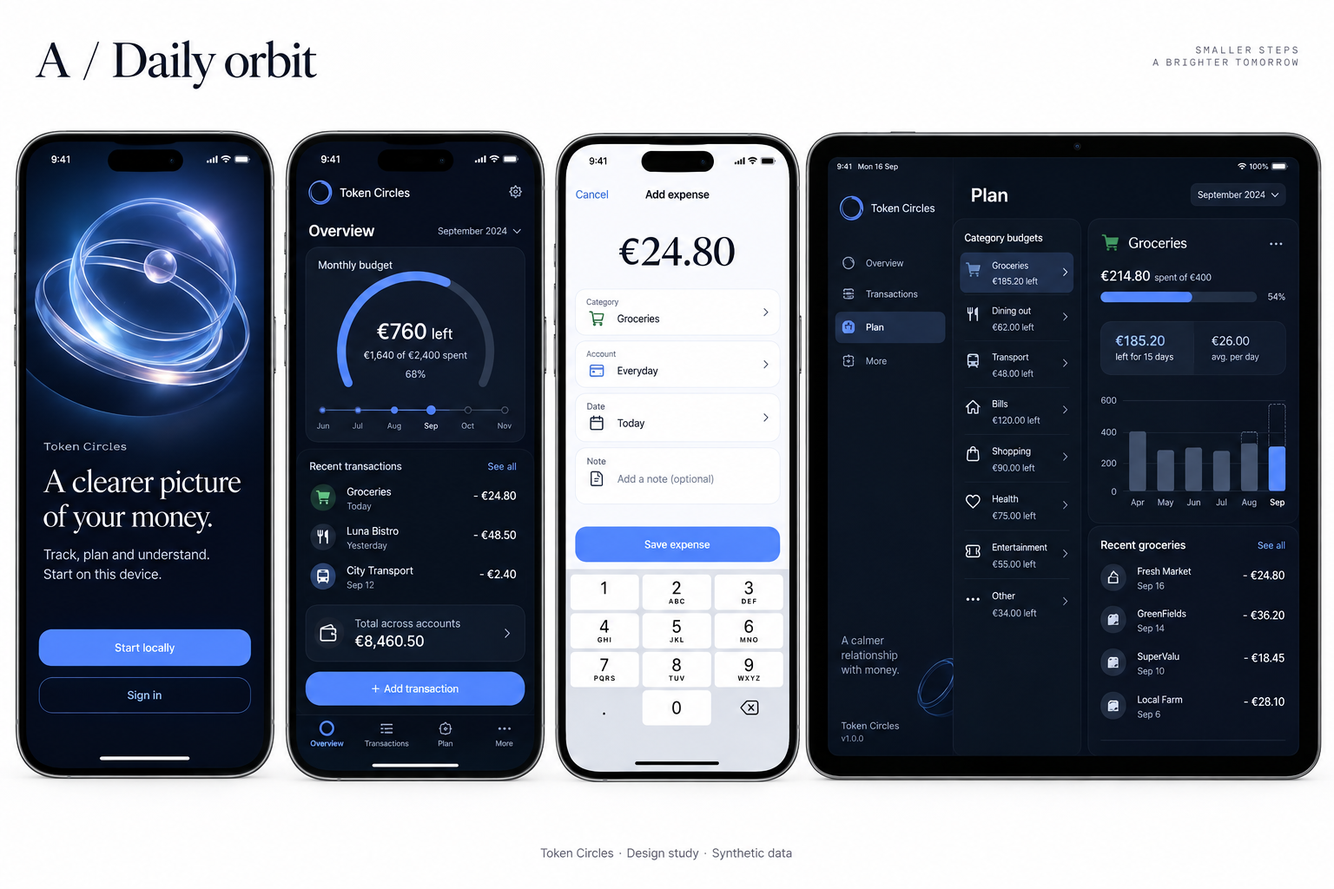
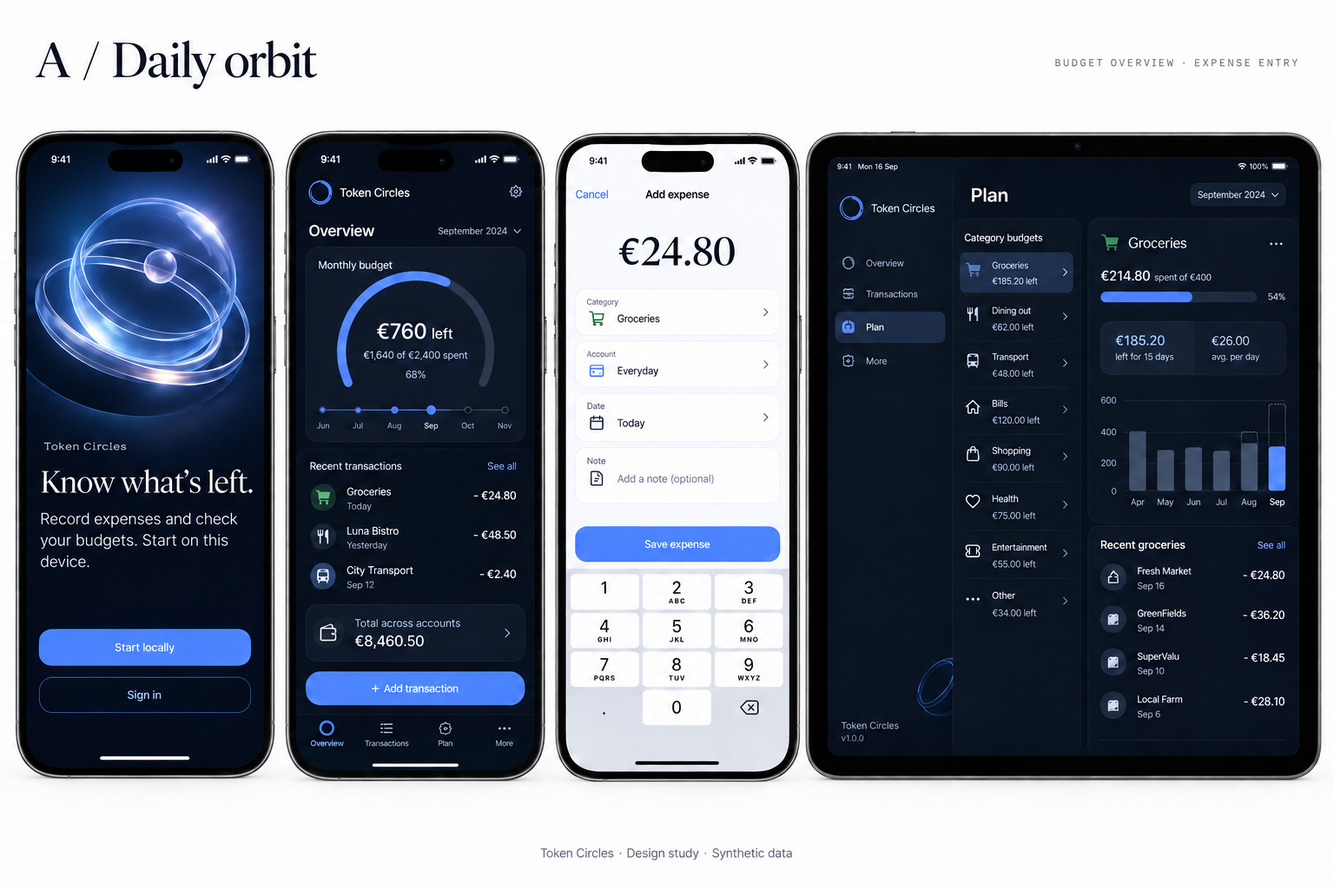
docs: revise native presentation with product voice rules

diff --git a/docs/native/gallery/index.html b/docs/native/gallery/index.html
@@ -11,7 +11,7 @@ FORM: Read/Experience research artifact. App composition remains pending; this p
     <meta charset="utf-8" />
     <meta name="viewport" content="width=device-width, initial-scale=1" />
     <meta name="color-scheme" content="light" />
-    <title>Token Circles — Native app research</title>
+    <title>Token Circles: native app research</title>
     <link rel="stylesheet" href="gallery.css" />
   </head>
   <body>
@@ -26,10 +26,10 @@ FORM: Read/Experience research artifact. App composition remains pending; this p
       <section class="intro" aria-labelledby="title">
         <div>
           <p class="status">Planning proposal · Decisions pending</p>
-          <h1>Your finances.<br />A native perspective.</h1>
+          <h1>Token Circles for<br />iOS and Android.</h1>
           <p class="lede">
-            One product, a purpose-built mobile experience. A plan for iOS and Android that keeps the local-first
-            foundation and gives every flow room to feel at home.
+            Compare three mobile designs for checking budgets, recording expenses and reviewing accounts. Local use
+            stays available without sign-in.
           </p>
         </div>
         <div class="brief">
@@ -38,8 +38,8 @@ FORM: Read/Experience research artifact. App composition remains pending; this p
             and United States first.
           </p>
           <p>
-            Start with a coherent daily finance loop. Reuse tested logic, build a separate mobile interface, and advance
-            one accepted surface at a time.
+            Build the essentials first: accounts, transactions and budgets. Reuse the existing finance logic and review
+            each mobile screen before building the next.
           </p>
           <a class="link-button" href="../README.md">Read the master plan <span aria-hidden="true">↗</span></a
           ><a class="text-link" href="../decisions.md">Open the decision checklist</a>
@@ -55,7 +55,7 @@ FORM: Read/Experience research artifact. App composition remains pending; this p
         <div class="section-heading">
           <div>
             <p class="label">Composition review</p>
-            <h2 id="concept-title">Three ways into the same product.</h2>
+            <h2 id="concept-title">What should the first screen show?</h2>
           </div>
           <p>Generated design studies with synthetic data.<br />Each board shows three phones and a tablet.</p>
         </div>
@@ -77,12 +77,13 @@ FORM: Read/Experience research artifact. App composition remains pending; this p
             <div>
               <h3>A / Daily orbit</h3>
               <p>
-                Budget context leads. A useful monthly relationship, fast expense entry and an expanded planning view.
+                Show the monthly budget first, with spending and the remaining amount together. Keep expense entry close
+                by.
               </p>
             </div>
             <div>
               <strong>Carry forward</strong>
-              <p>The welcome composition, amount-first entry and clear spent/limit/remaining relationship.</p>
+              <p>The welcome layout, amount-first entry and budget display showing spent, limit and remaining.</p>
               <strong>Refine</strong>
               <p>
                 Replace decorative timeline dots, generated glyphs and serif money-entry text. Avoid a stack of
@@ -103,15 +104,20 @@ FORM: Read/Experience research artifact. App composition remains pending; this p
           <figcaption>
             <div>
               <h3>B / The daily ledger</h3>
-              <p>Transactions lead. A legible everyday list becomes a focused reconciliation workspace on a tablet.</p>
+              <p>
+                Put the transaction list first. On a tablet, show the selected transaction and its receipt beside the
+                list.
+              </p>
             </div>
             <div>
               <strong>Carry forward</strong>
-              <p>Date grouping, aligned amounts and contextual detail. Keep the current task visible while editing.</p>
+              <p>
+                Group transactions by date and align their amounts. Keep the list visible while editing a transaction.
+              </p>
               <strong>Refine</strong>
               <p>
-                Use native operating typography. Rebuild receipt and transaction values from coherent fixtures; do not
-                inherit unverified actions.
+                Use system fonts for transaction screens. Make receipt totals match their transaction amounts and check
+                that each action exists in Token Circles.
               </p>
             </div>
           </figcaption>
@@ -128,9 +134,7 @@ FORM: Read/Experience research artifact. App composition remains pending; this p
           <figcaption>
             <div>
               <h3>C / Account perspective</h3>
-              <p>
-                Accounts lead. The relationship between balances, budget and recent activity is visible at a glance.
-              </p>
+              <p>Show account balances first, followed by the monthly budget and recent transactions.</p>
             </div>
             <div>
               <strong>Carry forward</strong>
@@ -153,9 +157,9 @@ FORM: Read/Experience research artifact. App composition remains pending; this p
         <div class="section-heading">
           <div>
             <p class="label">Screen contracts</p>
-            <h2 id="patterns-title">Built around the task.</h2>
+            <h2 id="patterns-title">From the first launch to the next expense.</h2>
           </div>
-          <p>Brand expression at entry.<br />Clarity wherever money changes.</p>
+          <p>Artwork on the welcome screen.<br />Amounts and actions on the finance screens.</p>
         </div>
         <div class="pattern-grid">
           <article>
@@ -173,7 +177,7 @@ FORM: Read/Experience research artifact. App composition remains pending; this p
             <h3>Four destinations. One action.</h3>
             <p>
               Overview, Transactions, Plan and More are the proposed destinations. Add transaction is a distinct action.
-              A tablet gains a rail and meaningful list/detail panes.
+              A tablet uses a navigation rail and shows a list beside its selected item.
             </p>
             <p class="small">
               Native back, keyboard, safe area, resume and assistive technology need real-device evidence.
@@ -186,8 +190,8 @@ FORM: Read/Experience research artifact. App composition remains pending; this p
               success state. A payment screen also needs restore and existing-subscriber paths.
             </p>
             <p class="small">
-              A generated frame is an idea. An accepted surface includes real content, state behavior and accessibility
-              checks.
+              Before approving a screen, review its content, error states and accessibility. A generated frame alone
+              cannot show how it behaves.
             </p>
           </article>
         </div>
@@ -224,13 +228,13 @@ FORM: Read/Experience research artifact. App composition remains pending; this p
                 <td>Over budget, no budget, empty account</td>
               </tr>
               <tr>
-                <td>Understand &amp; keep</td>
+                <td>Reports &amp; backups</td>
                 <td>Insights, receipts, export, backup</td>
                 <td>Chart and report selection</td>
                 <td>No data, denied permission, invalid import</td>
               </tr>
               <tr>
-                <td>Cloud &amp; control</td>
+                <td>Subscriptions &amp; settings</td>
                 <td>Upgrade, manage, restore, settings, delete</td>
                 <td>Settings and subscription detail</td>
                 <td>Existing Stripe plan, revoked purchase</td>
@@ -245,7 +249,7 @@ FORM: Read/Experience research artifact. App composition remains pending; this p
         <div class="section-heading">
           <div>
             <p class="label">Commercial decision</p>
-            <h2 id="economics-title">Count what remains.</h2>
+            <h2 id="economics-title">Subscription revenue after fees.</h2>
           </div>
           <p>Customer revenue ≠ proceeds ≠ profit.<br />Tax, fixed fees and purchase route matter.</p>
         </div>
@@ -352,9 +356,9 @@ FORM: Read/Experience research artifact. App composition remains pending; this p
         <div class="section-heading">
           <div>
             <p class="label">Execution</p>
-            <h2 id="execution-title">Progress by accepted evidence.</h2>
+            <h2 id="execution-title">From designs to a store build.</h2>
           </div>
-          <p>No deadlines or duration estimates.<br />One coherent phase at a time.</p>
+          <p>No deadlines or duration estimates.<br />Review each phase before starting the next.</p>
         </div>
         <ol class="phases" start="0">
           <li>
@@ -374,7 +378,7 @@ FORM: Read/Experience research artifact. App composition remains pending; this p
             <p>Small tested domain extractions, storage/runtime ports and secure native identity.</p>
           </li>
           <li>
-            <h3>Complete daily finance loop</h3>
+            <h3>Build accounts, transactions and budgets</h3>
             <p>Accounts, transactions, transfers, overview, budgets and backup.</p>
           </li>
           <li>
@@ -393,7 +397,7 @@ FORM: Read/Experience research artifact. App composition remains pending; this p
         <div class="section-heading">
           <div>
             <p class="label">Research library</p>
-            <h2 id="sources-title">The evidence stays with the plan.</h2>
+            <h2 id="sources-title">Open the research behind each decision.</h2>
           </div>
         </div>
         <div class="library">
@@ -409,6 +413,8 @@ FORM: Read/Experience research artifact. App composition remains pending; this p
             ><strong>Subscriptions</strong><span>Primary policy sources and cost formulas</span></a
           ><a href="../visual-research.md"
             ><strong>Visual references</strong><span>Mobbin links, native guidance and critique</span></a
+          ><a href="../copy-review.md"
+            ><strong>Product copy</strong><span>Writing rule and before/after examples</span></a
           ><a href="../release-checklist.md"
             ><strong>Release checklist</strong><span>Device, privacy, billing and review gates</span></a
           ><a href="../decisions.md"

diff --git a/docs/native/gallery/PROMPTS.md b/docs/native/gallery/PROMPTS.md
@@ -1,6 +1,6 @@
 # Concept board prompts
 
-Generated through the built-in ChatGPT image tool. The tool does not offer a model selector; no claim of a specific 2.5 model is made. The owner approved use of the available tool. These are composition studies with synthetic data, not screenshots of a shipping application. Keep original returned images unchanged. Any font, mark, amount, date, icon, keyboard or control depicted in a raster is subject to correction in semantic UI.
+Generated through the built-in ChatGPT image tool. The tool does not offer a model selector; no claim of a specific 2.5 model is made. The owner approved use of the available tool. These are composition studies with synthetic data, not screenshots of a shipping application. Original generation outputs are retained as source evidence; the gallery uses the September 30 copy revisions described below. Any font, mark, amount, date, icon, keyboard or control depicted in a raster is subject to correction in semantic UI.
 
 ## A — Daily orbit
 
@@ -13,3 +13,29 @@ Create a polished high-fidelity mobile product design concept board for Token Ci
 ## C — Account perspective
 
 Create a polished high-fidelity mobile product design concept board for Token Circles, a personal finance budgeting app (not crypto, not a bank). Show four designed devices across a wide 3:2 landscape board: three portrait phones and one landscape tablet, all fully visible with generous margins, on a plain near-white presentation background with a small restrained board title. The content INSIDE devices uses the existing Token Circles identity: deep indigo #0a0e1c, elevated #131c39, starlight #eaf0ff, secondary #9fb0d6, action azure #6e9bff, warm #f0a860 sparingly. One device should demonstrate the Dawn light variant #f7f9ff with ink navy and deep blue #3b6fe0. Elegant serif only for welcome headline; native SF/Roboto-like sans for all operational UI. Fine orbital ring identity, excellent typography and spacious precise native hierarchy. Welcome art may be a beautiful atmospheric optical-glass orbit sculpture, NOT money coins, not stock crypto art. All functional controls legible and realistic; operational screens must have opaque grounds and no decorative space imagery behind financial data. Phone bottom tabs have four items labeled Overview, Transactions, Plan, More. Add transaction is a separate clear button, not a tab. Respect status-bar and bottom safe area, large touch controls. No emojis. No bank linking, no AI, no financial advice, no receipt OCR, no partner invites, no encryption claims. Small board footer reads 'Token Circles · Design study · Synthetic data'. Must look like an exceptionally well-designed native app, with real purposeful composition rather than generic card-grid dashboard. Board title 'C / Account perspective'. First phone: dark welcome with a striking close-cropped orbital instrument lens viewed from above, azure and one warm dawn highlight, headline 'Your money. In perspective.', primary 'Start locally', secondary 'Sign in'. Second phone: Dawn light Overview, large €8,460.50 total across 3 accounts, horizontally organized mini balance trend with direct labels, list Everyday €2,460.50, Savings €5,500.00, Cash €500.00, then compact 'Budget remaining €760' strip and two recent transactions, separate Add transaction action and four labeled bottom tabs. Third phone: dark Plan with monthly limit €2,400, remaining €760, clean vertically stacked labeled budget arcs for Groceries €214.80/€400, Transport €95/€180, Dining €180/€250; include time scope September and Edit budgets link, minimal cards. Tablet: dark Overview with leading native navigation rail, generous central account trend and account balances, narrow right context pane with monthly budget and recent activity; use expanded space for relationships, never stretched phone cards. Design is quiet financial instrument craftsmanship, no neon, no ornamental numbers.
+
+## Copy revision, September 30, 2026
+
+The original September 13 prompts above are historical evidence, including wording now rejected by the owner. They must not be reused as current product-copy guidance. Apply the shared [product-voice skill](/home/maff/.dotfiles/personal/agentic/skills/product-voice/SKILL.md) to future prompts and review all text returned in images.
+
+The owner requested this copy pass and approved the available ChatGPT image tool earlier. These are text-localization edits of the original boards; generation model version remains unverified. Original boards remain available in the initial planning commit `00d433bf` and the original generated-image files. The gallery serves the revised boards at the existing asset paths.
+
+Changes: A welcome now says “Know what’s left”; B says “Your spending, line by line”; C says “Your accounts, side by side.” Mood slogans were removed from the tablet sidebars and decorative board mottos were replaced by descriptions of the screens. Numbers and controls retain their concept status and original limitations.
+
+### A edit
+
+Use case: text-localization. Edit target: the supplied Token Circles phone/tablet concept board. Change only the explicitly listed English promotional text. Welcome phone: replace headline with 'Know what’s left.' and supporting text with 'Record expenses and check your budgets. Start on this device.' On the tablet sidebar, remove the slogan 'A calmer relationship with money.' entirely, leaving clean empty space. Replace the board’s upper-right decorative motto with 'BUDGET OVERVIEW · EXPENSE ENTRY'. Preserve the original complete 3:2 landscape board dimensions and framing, device positions and shapes, original orbital artwork, typography character, colors, all amounts, charts, dates, transaction rows, labels, buttons and navigation exactly. Fit the replacement text using existing text areas with clean legible line breaks; maintain appropriate original headline/body sizes. Never add new slogans or emotional promises. The words calm, calmer, calming, peaceful, soothing, seamless, effortless, elevate, unlock and journey must not appear anywhere in the final board. All other content remains unchanged. Return the whole board, not a crop.
+
+Generated source: `/home/maff/.codex/generated_images/01a09a20-07be-7030-bda2-d9427ec8a0af/exec-17c123fa-6d33-49be-a649-538ea5a41898.png`.
+
+### B edit
+
+Use case: text-localization. Edit target: the supplied Token Circles phone/tablet concept board. Change only the explicitly listed English promotional text. Welcome phone: replace headline with 'Your spending, line by line.' and supporting text with 'Keep transactions and receipts together. Start on this device.' Replace the board’s upper-right decorative motto with 'TRANSACTION LIST · RECEIPT DETAIL'. Preserve the original complete 3:2 landscape board dimensions and framing, device positions and shapes, original orbital artwork, typography character, colors, all amounts, charts, dates, transaction rows, labels, buttons and navigation exactly. Fit the replacement text using existing text areas with clean legible line breaks; maintain appropriate original headline/body sizes. Never add new slogans or emotional promises. The words calm, calmer, calming, peaceful, soothing, seamless, effortless, elevate, unlock and journey must not appear anywhere in the final board. All other content remains unchanged. Return the whole board, not a crop.
+
+Generated source: `/home/maff/.codex/generated_images/01a09a20-07be-7030-bda2-d9427ec8a0af/exec-64e6c344-eb8d-4f5e-a4f1-5431231e4cd2.png`.
+
+### C edit
+
+Use case: text-localization. Edit target: the supplied Token Circles phone/tablet concept board. Change only the explicitly listed English promotional text. Welcome phone: replace headline with 'Your accounts, side by side.' and supporting text with 'Check account balances and this month’s budget.' On the tablet sidebar, remove the slogan 'A calmer relationship with money.' entirely, leaving clean empty space. Replace the board subtitle 'SAME MONEY. A CLEARER YOU.' with 'ACCOUNT BALANCES · MONTHLY BUDGET'. Remove the upper-right small motto 'A MORE CONSCIOUS TOMORROW' entirely. Preserve the original complete 3:2 landscape board dimensions and framing, device positions and shapes, original orbital artwork, typography character, colors, all amounts, charts, dates, transaction rows, labels, buttons and navigation exactly. Fit the replacement text using existing text areas with clean legible line breaks; maintain appropriate original headline/body sizes. Never add new slogans or emotional promises. The words calm, calmer, calming, peaceful, soothing, seamless, effortless, elevate, unlock and journey must not appear anywhere in the final board. All other content remains unchanged. Return the whole board, not a crop.
+
+Generated source: `/home/maff/.codex/generated_images/01a09a20-07be-7030-bda2-d9427ec8a0af/exec-f98aea08-562c-439c-b500-8c21d516fc94.png`.

diff --git a/docs/native/copy-review.md b/docs/native/copy-review.md
@@ -1,0 +1,38 @@
+# Token Circles product copy review
+
+September 30, 2026. The owner requested a shared writing rule for Codex and Claude, then a copy pass on this native-app presentation. The first batch covers stock AI wording and vague sales promises. This does not approve a visual composition, native feature scope or billing choice.
+
+The canonical rule is [product-voice](/home/maff/.dotfiles/personal/agentic/skills/product-voice/SKILL.md). Both tools' personal skill directories link to the same folder, and their global instructions load it for user-facing writing. New sessions will pick up that standing instruction; existing sessions need to read the updated file.
+
+## The rule in practice
+
+Use words that describe what someone can do, see or understand. Give welcome copy character through a specific idea. Keep buttons, error messages and payment choices precise. Remove unsupported mood claims and generic sales promises, and preserve facts, numbers and meaningful uncertainty.
+
+The owner's explicit mood-word ban covers _calm, calmer, calmest, calming_ and _calmly_ in product copy. The broader approved batch removes vague uses of _seamless, effortless, intuitive, delightful, elevate, empower, unlock, journey, reimagine_ and _curated_. Literal uses, quotations and code retain their meaning. Newly authored visible English copy avoids em dashes, following the existing cross-product preference.
+
+The preference register lists further candidates for later review. An automatic word search is a useful reminder; it cannot judge the whole sentence or guarantee good writing.
+
+## Examples from the presentation
+
+| Surface                | Before                                                        | Revised                                                        |
+| ---------------------- | ------------------------------------------------------------- | -------------------------------------------------------------- |
+| A welcome              | A clearer picture of your money.                              | Know what's left.                                              |
+| A welcome support      | Track, plan and understand. Start on this device.             | Record expenses and check your budgets. Start on this device.  |
+| A and C tablet sidebar | A calmer relationship with money.                             | Removed; the sidebar keeps navigation and brand artwork        |
+| B welcome              | Make room for what matters.                                   | Your spending, line by line.                                   |
+| B welcome support      | A calmer way to track your money and build the life you want. | Keep transactions and receipts together. Start on this device. |
+| C welcome              | Your money. In perspective.                                   | Your accounts, side by side.                                   |
+| C welcome support      | A calmer, clearer way to plan your everyday life.             | Check account balances and this month's budget.                |
+| Gallery introduction   | Your finances. A native perspective.                          | Token Circles for iOS and Android.                             |
+| Concept review heading | Three ways into the same product.                             | What should the first screen show?                             |
+| Economics heading      | Count what remains.                                           | Subscription revenue after fees.                               |
+
+Board mottos about a brighter tomorrow or a clearer person were replaced by screen descriptions: budget overview and expense entry; transaction list and receipt detail; account balances and monthly budget. The [gallery](gallery/index.html) presents all three revised boards for comparison.
+
+## Sources and checks
+
+An independent application of the skill preserved the €3/month and €30/year example prices, cloud receipt attachment wording, the actual "Unlock device" action and a quoted weather description. A failed-save example became an explanation that the expense was not saved because the connection was offline, with a Retry action. This checked useful behavior and protected meanings rather than matching a fixed slogan.
+
+The concept images were edited with the available ChatGPT image tool, then visually checked for the requested wording and removed sidebar slogans. [PROMPTS.md](gallery/PROMPTS.md) retains the original historical prompts and the exact edit prompts. The original boards remain in commit `00d433bf`; current gallery assets contain the revisions. Generated controls, dates and financial fixtures retain their original concept limitations.
+
+Existing humanizer options and primary research are summarized in the skill's [research notes](/home/maff/.dotfiles/personal/agentic/skills/product-voice/references/research.md). The strongest upstream reference reviewed was [blader/humanizer](https://github.com/blader/humanizer). The local rule is original, UI-focused guidance; no external humanizer plugin or connector was installed.

diff --git a/docs/native/visual-research.md b/docs/native/visual-research.md
@@ -1,6 +1,6 @@
 # Native visual research and gallery contract
 
-Keep Token Circles recognizable through its orbit geometry, Observatory/Dawn colors, and occasional Fraunces display type. Replace desktop topology with a mobile task hierarchy. The native operating surface should be quieter than its welcome artwork: fast amount entry and trustworthy data are the purpose of the design.
+Keep Token Circles recognizable through its orbit geometry, Observatory/Dawn colors, and occasional Fraunces display type. Use mobile navigation and layouts that fit the current task. Reserve orbit artwork for welcome screens; keep amount entry focused on fields, values and actions.
 
 ## Reference gallery structure
 
@@ -56,14 +56,14 @@ At minimum, the first detailed review should cover welcome, storage choice, loca
 
 Generate assets only after the accepted composition shows where they belong. Proposed first production batch:
 
-| Asset                             | Purpose and delivery                                                    | Constraints                                                                           |
-| --------------------------------- | ----------------------------------------------------------------------- | ------------------------------------------------------------------------------------- |
-| Welcome, Observatory              | Portrait optical orbit sculpture, dark negative space for semantic text | No currency symbols, fake chart values or letters; local-first copy remains live text |
-| Welcome, Dawn                     | Independently composed daylight version, not a color inversion          | Readable foreground and meaningful subject crop on short screens                      |
-| Onboarding: on this device        | Small calm orbit object suggesting a self-contained space               | Do not imply encryption or physical-device backup                                     |
-| Onboarding: optional cloud        | Two orbit planes connected by light, text-free                          | Only use with approved sync language; do not depict people collaborating              |
-| First account / first transaction | Small supportive empty-state illustration                               | Keep the task button and explanation dominant                                         |
-| Tablet welcome                    | Landscape composition with separate content zone                        | Not a cropped phone image                                                             |
+| Asset                             | Purpose and delivery                                                                 | Constraints                                                                           |
+| --------------------------------- | ------------------------------------------------------------------------------------ | ------------------------------------------------------------------------------------- |
+| Welcome, Observatory              | Portrait optical orbit sculpture, dark negative space for semantic text              | No currency symbols, fake chart values or letters; local-first copy remains live text |
+| Welcome, Dawn                     | Independently composed daylight version, not a color inversion                       | Readable foreground and meaningful subject crop on short screens                      |
+| Onboarding: on this device        | A single orbit object inside a defined boundary, illustrating storage on this device | Do not imply encryption or physical-device backup                                     |
+| Onboarding: optional cloud        | Two orbit planes connected by light, text-free                                       | Only use with approved sync language; do not depict people collaborating              |
+| First account / first transaction | Small illustration beside the first-account or first-transaction explanation         | Keep the task button and explanation dominant                                         |
+| Tablet welcome                    | Landscape composition with separate content zone                                     | Not a cropped phone image                                                             |
 
 Additional assets for later onboarding, optional promotional backdrops and store artwork can bring the collection to ten, twenty or more if needed. Keep store screenshots grounded in working app builds. Do not generate a decorative background for every operating page.
 

diff --git a/docs/native/research/product-audit.md b/docs/native/research/product-audit.md
@@ -29,7 +29,7 @@ Evidence: `/home/maff/.dotfiles/personal/finance/marketing/positioning-and-sound
 
 | Existing capability                                                                      | Source evidence                                                                                                                                          | Mobile design implication / recommendation                                                                                                                                                                                                                                          |
 | ---------------------------------------------------------------------------------------- | -------------------------------------------------------------------------------------------------------------------------------------------------------- | ----------------------------------------------------------------------------------------------------------------------------------------------------------------------------------------------------------------------------------------------------------------------------------- |
-| Dashboard and period summaries                                                           | `frontend/src/router.tsx:11`; `worker/src/routes/dashboard.ts`; `worker/src/routes/analytics.ts`                                                         | One calm overview with immediately useful balances, upcoming obligations, and a route into details. Do not shrink a dashboard grid onto a phone.                                                                                                                                    |
+| Dashboard and period summaries                                                           | `frontend/src/router.tsx:11`; `worker/src/routes/dashboard.ts`; `worker/src/routes/analytics.ts`                                                         | An overview showing account balances and upcoming obligations, with links to their details. Do not shrink a dashboard grid onto a phone.                                                                                                                                            |
 | Transactions, income/expense/transfers/deductions, tags, notes, receipts, reconciliation | `frontend/src/types/models.ts:18–20,53–77`; `frontend/src/router.tsx:12`                                                                                 | Searchable grouped list, detail route, compact filter sheet, explicit transfer source/destination, reliable edit feedback. Preserve all four transaction types in the domain even if quick entry initially presents fewer.                                                          |
 | Quick entry and touch-guided entry                                                       | `frontend/src/components/GuidedOrbit.tsx:1–7,27–45,76–85,117–135`                                                                                        | Reuse the intent and defaults: amount, category, account, date, confirmation. Rebuild keyboard handling, entry sheet and focus behavior. Current Guided Orbit only offers expense/income and hard-limits two decimals; do not infer complete currency/transaction coverage from it. |
 | Accounts and balance history                                                             | `README.md:37`; `frontend/src/types/models.ts:20`; `worker/src/routes/accounts.ts`                                                                       | Account list/detail, obvious current currency and balance, adjustments separated from ordinary transactions. Existing types are giro, savings, investment (`ib`), and cash.                                                                                                         |

diff --git a/docs/native/DESIGN.md b/docs/native/DESIGN.md
@@ -1,6 +1,6 @@
 # Token Circles mobile design system
 
-The mobile surface inherits the Orbital Observatory and Dawn identity. It does not inherit the desktop composition. The operating scene is a short, frequent money-management task in varied light, so both light and dark surfaces receive first-class design; the device appearance is the proposed default, with a saved explicit override.
+The mobile app keeps the Orbital Observatory and Dawn identity, with layouts designed for phones and tablets. People will record purchases and check budgets throughout the day, indoors and outside. Design and test both light and dark themes. Following the device appearance is the proposed default, with a saved preference for anyone who chooses a theme.
 
 ## Durable identity
 
@@ -25,7 +25,7 @@ Use the existing orbit mark as an SVG, with thin ring geometry only where it exp
 
 Keep Fraunces for occasional welcome or editorial display because it is a confirmed Token Circles brand face. Use a platform system font for native operating screens; test an Inter alternative as a design decision. Use tabular numerals for amounts, without forcing a monospace face across all content. Never render functional text into an image.
 
-Use restrained opaque operating surfaces, clear large titles and dividing space between row groups. Welcome and onboarding may carry original, cinematic orbit artwork. Artwork recedes completely from transaction entry, authentication, purchase consent and error recovery. No emoji, ornamental currency coins, unexplained scores, oversized dashboard mosaics or desktop navigation scaled into a phone.
+Use opaque backgrounds, large section titles and space between row groups. Welcome and onboarding may carry original, cinematic orbit artwork. Keep artwork out of transaction entry, authentication, purchase consent and error recovery so fields, values and actions have the space they need. No emoji, ornamental currency coins, unexplained scores, oversized dashboard mosaics or desktop navigation scaled into a phone.
 
 ## Interaction contract to validate
 
@@ -39,7 +39,11 @@ Use restrained opaque operating surfaces, clear large titles and dividing space 
 
 ## Composition review
 
-Three image concepts will compare a budget-led daily overview, a transaction-led ledger and an account-led overview. They vary hierarchy, not identity. These are synthetic design studies; generated status bars, small text and controls are not implementation specifications. Selection is pending in the decisions register. Full HTML device frames and native implementation follow approval of a composition.
+Three image concepts compare different first screens: a monthly budget, a transaction list and an account overview. Each uses the Token Circles identity. These are synthetic design studies; generated status bars, small text and controls are not implementation specifications. Selection is pending in the decisions register. Full HTML device frames and native implementation follow approval of a composition.
+
+## Product copy
+
+Apply the shared [product-voice rule](/home/maff/.dotfiles/personal/agentic/skills/product-voice/SKILL.md) to headings, labels, explanations and text inside mockups. Write around the action or result a screen can actually provide. Review the whole output, including generated image text, before presenting it.
 
 ## References
 

diff --git a/docs/native/PRODUCT.md b/docs/native/PRODUCT.md
@@ -1,6 +1,6 @@
 # Token Circles mobile product
 
-Token Circles is a personal finance application for recording transactions, maintaining accounts and budgets, understanding spending, and using financial calculators. Its distinct promise is a useful local-first product with optional managed cloud services or a self-hosted Cloudflare Worker. The mobile application serves the same product through a dedicated iOS and Android interface.
+Token Circles records transactions, tracks accounts and budgets, and includes financial calculators. It works on this device without an account, with optional managed cloud services or a self-hosted Cloudflare Worker. The iOS and Android application will use the same finance features with layouts designed for phones and tablets.
 
 ## Confirmed commitments
 
@@ -19,11 +19,11 @@ Local-first and managed cloud are separate storage modes today. Do not imply tha
 
 ## Usage scenes
 
-A person records a purchase one-handed after paying, checks remaining category budget in daylight, reviews accounts and spending at home, or uses a tablet to reconcile a longer transaction list. The first action must work without a forced subscription or sign-in funnel. Cloud upgrades should explain an actual capability at the point of need.
+A person records a purchase one-handed after paying, checks the remaining grocery budget in daylight, reviews accounts and spending at home, or uses a tablet to reconcile a longer transaction list. Someone choosing local use must be able to start without subscribing or signing in. Explain what a cloud upgrade adds when that capability becomes relevant.
 
 ## Success
 
-Fast, legible entry and correction of money amounts; trustworthy save/error states; transparent storage and backup choices; accessible touch, keyboard and assistive-technology navigation; excellent compact and expanded layouts; existing subscription recognition without accidental duplicate purchases. Native platform conventions determine behavior even where controls are rendered by Solid in a Capacitor WebView.
+Users can enter and correct amounts, tell whether a change was saved, and recover from a failed save. They know where their data is stored and how to back it up. Screens work with touch, keyboards and assistive technology at both compact and expanded widths. Existing subscribers retain their plan without accidentally purchasing it twice. Native platform conventions determine behavior even where controls are rendered by Solid in a Capacitor WebView.
 
 ## Sources
 

diff --git a/docs/native/verification.md b/docs/native/verification.md
@@ -23,6 +23,10 @@ No runtime behavior changed, so this pass does not add or claim native behavior 
 
 ## Visual evidence and limits
 
+Copy revision, September 30, 2026: the presentation and three concept boards were revised under the shared product-voice rule. Global Codex/Claude instructions and both skill directories point to the same canonical skill. Its structure validator passed, and an independent editing exercise preserved literal uses, prices and entitlement meaning while rewriting welcome, sales and error copy. The image edits were visually checked; the financial comparison table was unchanged. See [copy review](copy-review.md) and the edit prompts for exact wording. The September 13 source-policy review remains the dated research baseline; this wording pass does not refresh payment-policy conclusions.
+
+The revised gallery returned HTTP 200 and was inspected again at its default 1280-pixel width and a 393 × 852 phone viewport. All concept images loaded and no document-level horizontal overflow was observed. The phone screenshot confirmed the revised introduction fits; the temporary viewport override was reset.
+
 The three original images are design concepts generated with the available ChatGPT image tool, as approved by the owner. The tool does not expose a selectable or verified “2.5” model version. Exact prompts and provenance are in [PROMPTS.md](gallery/PROMPTS.md).
 
 These boards are neither implemented app screenshots nor complete wireframes. Generated text, icons, receipt values, dates and keyboard glyphs need replacement with correct, coherent UI fixtures. Detailed iOS/Android phone and tablet screens, accessibility states and production art follow the composition and scope decisions. Browser viewport checks validate the research page, not VoiceOver, TalkBack, native keyboards, safe areas, back navigation or device performance.

diff --git a/docs/native/README.md b/docs/native/README.md
@@ -17,6 +17,7 @@ The recommended commercial baseline is to keep Stripe for web subscribers, recog
 | [Economics workbook](outputs/native-subscription-economics.xlsx)       | Editable assumptions and formula-driven comparisons; model inputs are not actual revenue      |
 | [Product brief](PRODUCT.md) and [design system](DESIGN.md)             | The fixed product truth and visual identity                                                   |
 | [Visual research](visual-research.md)                                  | Mobbin observations, platform guidance, concept review and gallery production contract        |
+| [Product copy review](copy-review.md)                                  | Shared writing rule and before/after examples from the presentation                           |
 | [Gallery](gallery/index.html)                                          | Phone/tablet concepts and screen review material                                              |
 | [Surface plan](surface-plan.md)                                        | Page-by-page native behavior, parity decisions, empty/error/offline states                    |
 | [Release checklist](release-checklist.md)                              | Device evidence, privacy, billing, review, signing and publication gates                      |

diff --git a/docs/native/decisions.md b/docs/native/decisions.md
@@ -12,6 +12,7 @@ An unchecked item is a proposal or missing input. A recommendation is not an app
 - [x] C06: No timelines or deadline calculations. Work progresses by accepted phases.
 - [x] C07: Use the available built-in ChatGPT image generator; its exact model version is unverified. Confirmed in this planning conversation.
 - [x] C08: Work on a dedicated Token Circles branch. Current branch: `feat/native-app-plan-and-design`.
+- [x] C09: Apply the shared product-voice rule to user-facing copy, including these presentations and generated mockup text. Stock AI wording plus vague sales promises was selected as the first broader batch on September 30, 2026. This wording approval does not select a visual composition or feature scope.
 
 ## Before scaffold and first feature slice
 
